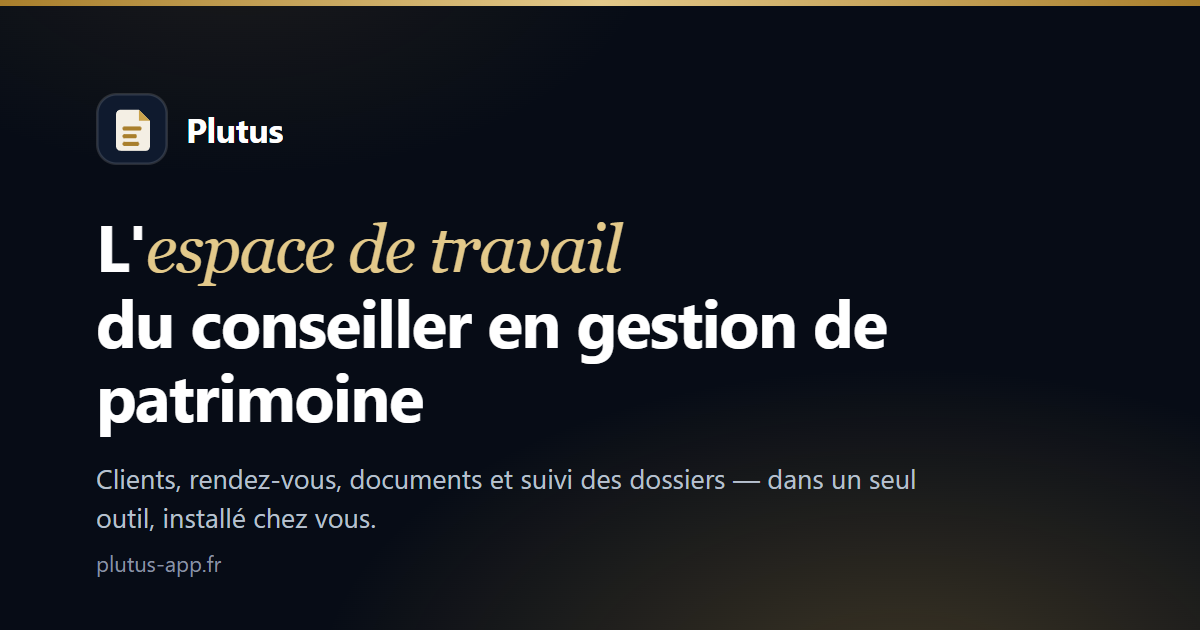
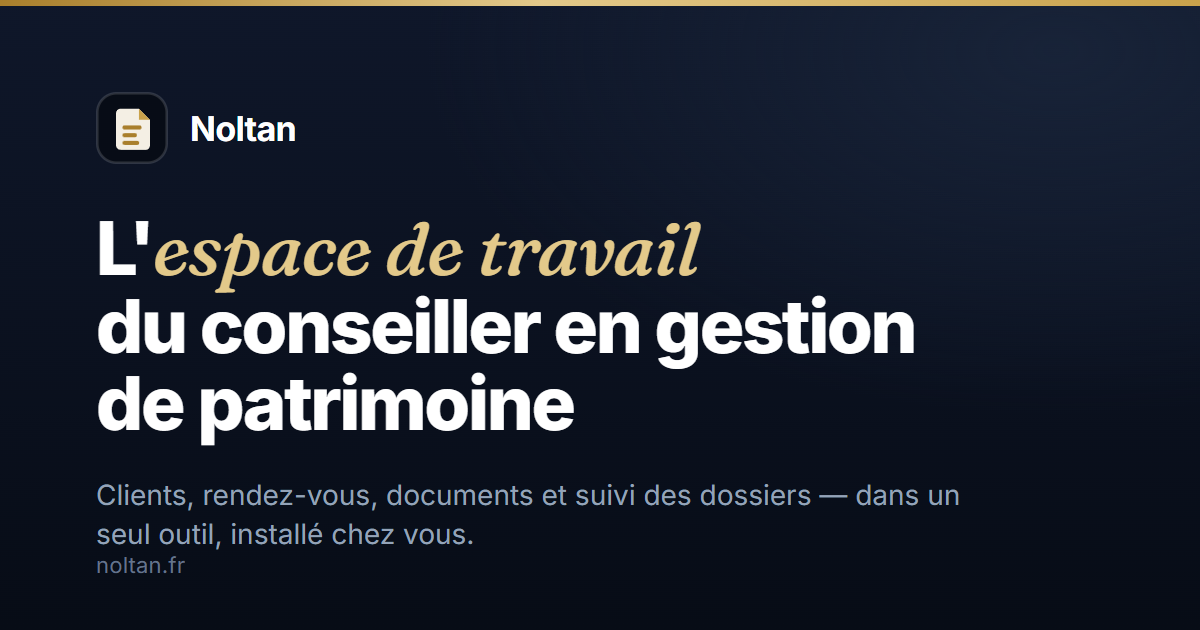
Image de partage : og.png au nom de Noltan et du domaine noltan.fr
L'image Open Graph disait encore « Plutus » et « plutus-app.fr ». Elle est
désormais produite par scripts/og-image.mjs (npm run og) depuis un modèle
HTML qui reprend la marque, les polices et les teintes du site — plus
d'image retouchée à la main.

diff --git a/scripts/og-image.html b/scripts/og-image.html
@@ -1,0 +1,114 @@
+<!doctype html>
+<html lang="fr">
+  <head>
+    <meta charset="utf-8" />
+    <title>Image de partage Noltan (1200 × 630)</title>
+    <link rel="stylesheet" href="../node_modules/@fontsource-variable/inter/index.css" />
+    <link rel="stylesheet" href="../node_modules/@fontsource-variable/fraunces/wght-italic.css" />
+    <style>
+      /* Mêmes teintes que src/styles/global.css (ink / gold). */
+      html,
+      body {
+        margin: 0;
+        width: 1200px;
+        height: 630px;
+        overflow: hidden;
+      }
+      body {
+        position: relative;
+        font-family: "Inter Variable", "Inter", system-ui, sans-serif;
+        color: #ffffff;
+        background:
+          radial-gradient(900px 520px at 88% 8%, #182338 0%, rgba(24, 35, 56, 0) 70%),
+          linear-gradient(180deg, #0f172a 0%, #070c16 100%);
+        -webkit-font-smoothing: antialiased;
+      }
+      .filet {
+        position: absolute;
+        inset: 0 0 auto 0;
+        height: 6px;
+        background: linear-gradient(90deg, #a97f2c 0%, #e3c98a 45%, #c9a24b 100%);
+      }
+      .cadre {
+        position: absolute;
+        inset: 0;
+        padding: 92px 96px 0 96px;
+        box-sizing: border-box;
+      }
+      .marque {
+        display: flex;
+        align-items: center;
+        gap: 22px;
+        height: 72px;
+      }
+      .marque span {
+        font-size: 34px;
+        font-weight: 700;
+        letter-spacing: -0.02em;
+      }
+      h1 {
+        margin: 46px 0 0 0;
+        font-size: 74px;
+        line-height: 1.04;
+        font-weight: 800;
+        letter-spacing: -0.03em;
+        max-width: 900px;
+      }
+      h1 em {
+        font-family: "Fraunces Variable", "Fraunces", Georgia, serif;
+        font-style: italic;
+        font-weight: 500;
+        letter-spacing: -0.01em;
+        color: #e3c98a;
+      }
+      p {
+        margin: 34px 0 0 0;
+        font-size: 28px;
+        line-height: 1.4;
+        font-weight: 400;
+        color: #94a3b8;
+        max-width: 880px;
+      }
+      .domaine {
+        position: absolute;
+        left: 96px;
+        bottom: 52px;
+        font-size: 22px;
+        color: #64748b;
+        letter-spacing: 0.01em;
+      }
+    </style>
+  </head>
+  <body>
+    <div class="filet"></div>
+    <div class="cadre">
+      <div class="marque">
+        <!-- Marque Noltan : même dessin que src/components/site/Logo.tsx (MarqueNoltan). -->
+        <svg width="72" height="72" viewBox="0 0 28 28" fill="none" aria-hidden="true">
+          <rect
+            x="0.5"
+            y="0.5"
+            width="27"
+            height="27"
+            rx="7.5"
+            fill="#070c16"
+            stroke="#ffffff"
+            stroke-opacity="0.14"
+          />
+          <path
+            d="M9.5 6.5h7.2l4.3 4.3v10a1.7 1.7 0 0 1-1.7 1.7H9.5a1.7 1.7 0 0 1-1.7-1.7V8.2a1.7 1.7 0 0 1 1.7-1.7Z"
+            fill="#F4EFE4"
+          />
+          <path d="M16.7 6.5 21 10.8h-4.3V6.5Z" fill="#c9a24b" />
+          <rect x="10.3" y="13" width="7.4" height="1.6" rx="0.8" fill="#a97f2c" />
+          <rect x="10.3" y="16" width="5.6" height="1.6" rx="0.8" fill="#a97f2c" />
+          <rect x="10.3" y="19" width="6.5" height="1.6" rx="0.8" fill="#a97f2c" />
+        </svg>
+        <span>Noltan</span>
+      </div>
+      <h1>L'<em>espace de travail</em><br />du conseiller en gestion de patrimoine</h1>
+      <p>Clients, rendez-vous, documents et suivi des dossiers — dans un seul outil, installé chez vous.</p>
+    </div>
+    <div class="domaine">noltan.fr</div>
+  </body>
+</html>

diff --git a/README.md b/README.md
@@ -54,6 +54,13 @@ npm run controle          # captures d'écran du site → controle-visuel/ (non 
   version présentée comme actuelle.
 - Aucun secret, aucun déclenchement inter-dépôts n'est nécessaire.
 
+## Image de partage (og.png)
+
+`npm run og` régénère `public/og.png` (1200 × 630) depuis
+`scripts/og-image.html` avec Edge (Playwright) — même marque, polices et
+teintes que le site. À relancer quand le nom, la promesse ou le domaine
+changent, puis vérifier l'image et la committer.
+
 ## Mettre à jour les captures du produit
 
 Les 9 images de `public/captures/` montrent l'application remplie d'un jeu de
